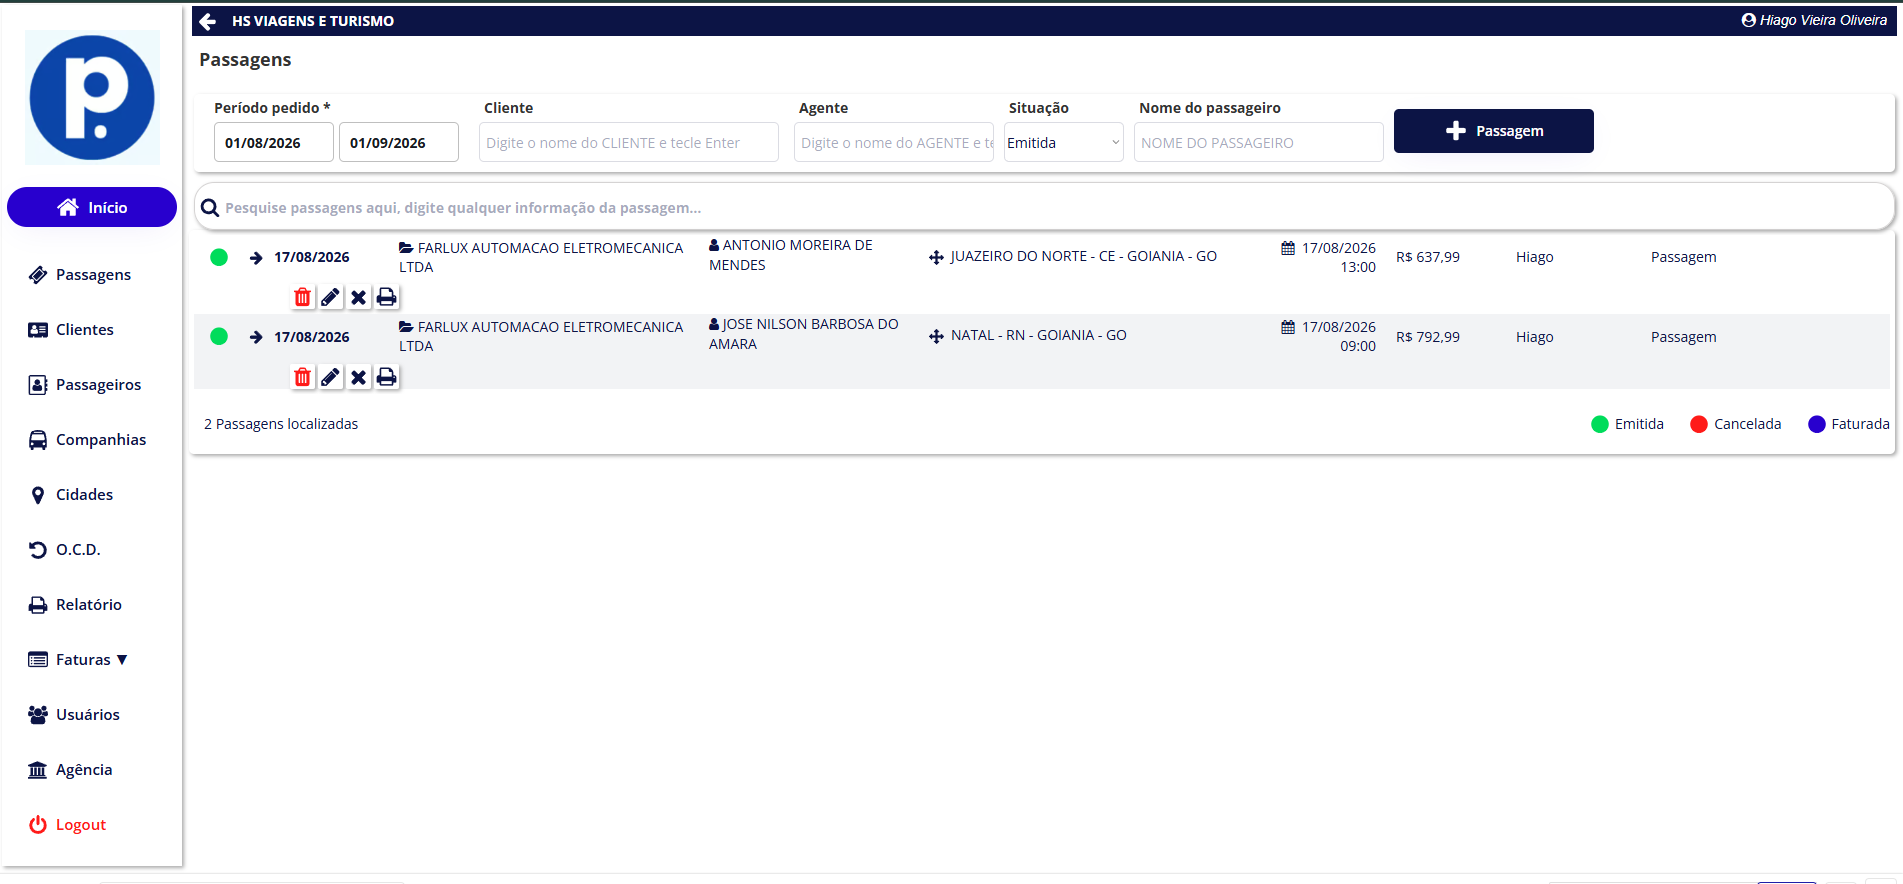
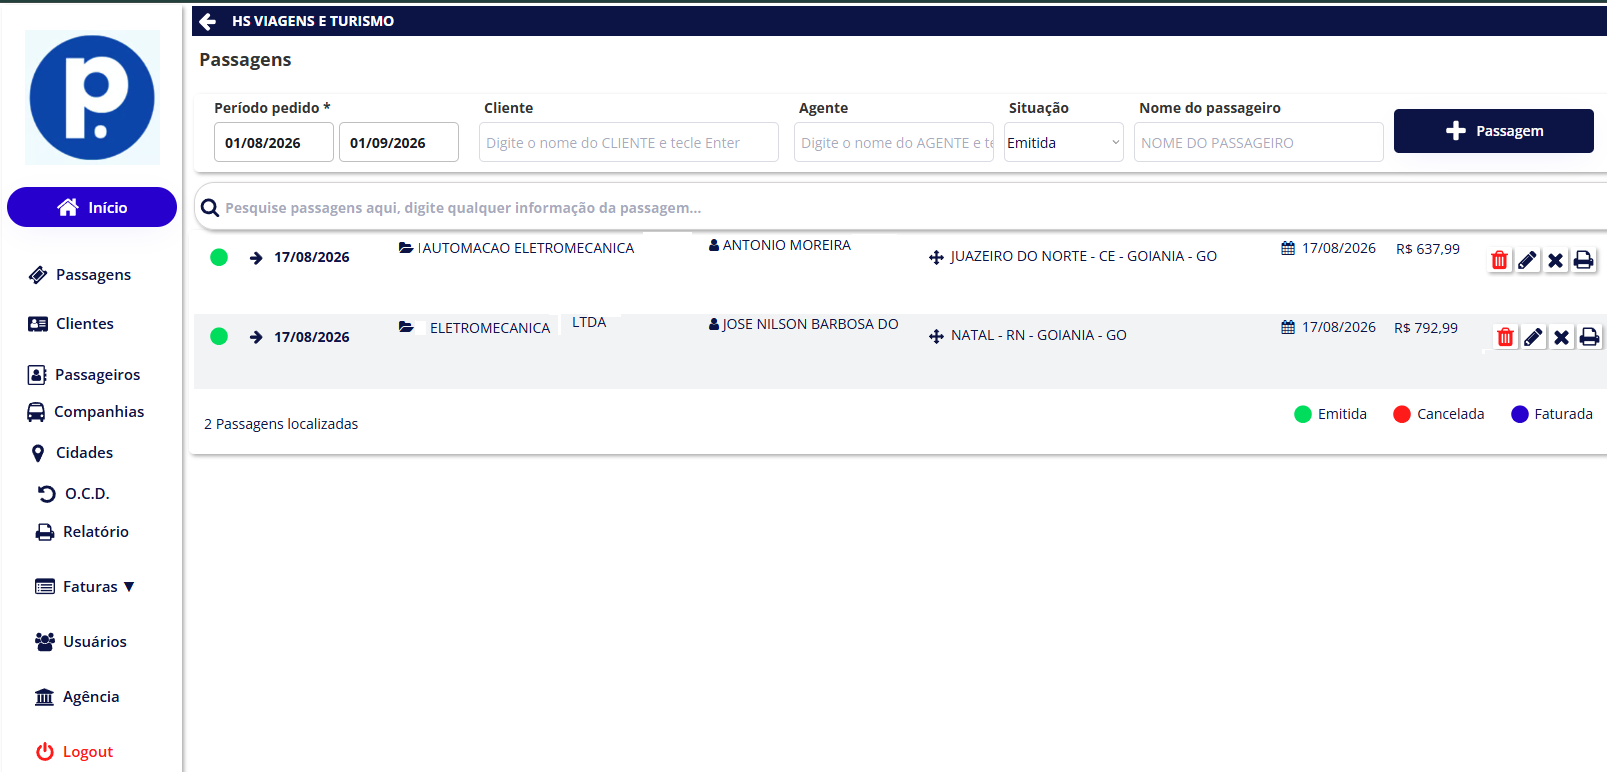
Atualiza screenshots (dados anonimizados), botão Entrar, FAQ schema e SEO
- Substitui screenshots com dados de clientes reais por versões anonimizadas
- Adiciona JSON-LD FAQPage refletindo as perguntas da seção de dúvidas
- Adiciona robots.txt e sitemap.xml

diff --git a/index.html b/index.html
@@ -17,6 +17,55 @@
 
 <link rel="icon" href="images/logotipo.png" />
 
+<script type="application/ld+json">
+{
+  "@context": "https://schema.org",
+  "@type": "FAQPage",
+  "mainEntity": [
+    {
+      "@type": "Question",
+      "name": "O Fatura Passagem gera boleto e nota fiscal?",
+      "acceptedAnswer": {
+        "@type": "Answer",
+        "text": "Não. O boleto e a nota fiscal continuam saindo dos seus sistemas atuais. O que o Fatura Passagem faz é permitir anexar os dois à fatura e enviar tudo junto ao cliente por e-mail."
+      }
+    },
+    {
+      "@type": "Question",
+      "name": "Funciona no celular e no tablet?",
+      "acceptedAnswer": {
+        "@type": "Answer",
+        "text": "Sim. É um sistema web: abre em qualquer navegador com internet, no PC, no tablet ou no celular. Não precisa instalar nada."
+      }
+    },
+    {
+      "@type": "Question",
+      "name": "Como é a cobrança?",
+      "acceptedAnswer": {
+        "@type": "Answer",
+        "text": "Depende do porte da agência e do volume de passagens. Chame no WhatsApp que a gente monta uma proposta para o seu caso."
+      }
+    },
+    {
+      "@type": "Question",
+      "name": "O que é uma OCD?",
+      "acceptedAnswer": {
+        "@type": "Answer",
+        "text": "Ordem de Crédito de Devolução. Quando uma passagem é devolvida pela companhia, você registra uma OCD e controla quando ela será faturada. Na fatura, ela entra com valor negativo, gerando desconto para o cliente."
+      }
+    },
+    {
+      "@type": "Question",
+      "name": "Consigo migrar minha base de clientes?",
+      "acceptedAnswer": {
+        "@type": "Answer",
+        "text": "Sim. Fale com a gente sobre o formato dos seus dados atuais e ajudamos na importação inicial de clientes. Serviço mediante pagamento adicional, solicite o orçamento."
+      }
+    }
+  ]
+}
+</script>
+
 <link rel="preconnect" href="https://fonts.googleapis.com" />
 <link rel="preconnect" href="https://fonts.gstatic.com" crossorigin />
 <link href="https://fonts.googleapis.com/css2?family=Inter:wght@400;500;600;700;800;900&display=swap" rel="stylesheet" />
@@ -77,10 +126,9 @@
       <a href="#faq" class="hover:text-navy">Dúvidas</a>
     </nav>
 
-    <a href="#" data-wa
-       class="hidden items-center gap-2 rounded-full bg-wa px-5 py-2.5 text-sm font-semibold text-white shadow-soft transition hover:bg-wa-600 md:inline-flex">
-      <svg viewBox="0 0 24 24" class="h-4 w-4 fill-current"><path d="M12.04 2C6.58 2 2.13 6.45 2.13 11.91c0 1.75.46 3.45 1.32 4.95L2 22l5.25-1.38a9.9 9.9 0 0 0 4.79 1.22h.01c5.46 0 9.91-4.45 9.91-9.91S17.5 2 12.04 2Zm0 18.15h-.01a8.2 8.2 0 0 1-4.19-1.15l-.3-.18-3.12.82.83-3.04-.2-.31a8.24 8.24 0 0 1-1.26-4.38c0-4.54 3.7-8.24 8.25-8.24 2.2 0 4.27.86 5.83 2.42a8.19 8.19 0 0 1 2.41 5.83c0 4.55-3.7 8.24-8.24 8.24Zm4.52-6.16c-.25-.12-1.47-.72-1.69-.81-.23-.08-.39-.12-.56.13-.16.25-.64.81-.79.97-.14.17-.29.19-.54.06-.25-.12-1.05-.39-1.99-1.23-.74-.66-1.23-1.47-1.38-1.72-.14-.25-.02-.38.11-.51.11-.11.25-.29.37-.43.13-.14.17-.25.25-.41.08-.17.04-.31-.02-.43-.06-.12-.56-1.34-.76-1.84-.2-.48-.4-.42-.56-.42l-.48-.01c-.17 0-.43.06-.66.31-.23.25-.86.85-.86 2.07 0 1.22.89 2.4 1.01 2.56.12.17 1.75 2.67 4.25 3.74.59.26 1.06.41 1.42.52.6.19 1.14.16 1.57.1.48-.07 1.47-.6 1.68-1.18.21-.58.21-1.07.14-1.18-.06-.1-.22-.16-.47-.28Z"/></svg>
-      Falar no WhatsApp
+    <a href="https://passagem.app"
+       class="hidden items-center gap-2 rounded-full bg-brand px-6 py-2.5 text-sm font-semibold text-white shadow-soft transition hover:bg-brand-500 md:inline-flex">
+      Entrar
     </a>
 
     <button id="menuBtn" class="md:hidden" aria-label="Abrir menu">
@@ -132,7 +180,7 @@
             Ver como funciona
           </a>
         </div>
-        <p class="mt-6 flex flex-wrap items-center gap-x-6 gap-y-2 text-sm text-white/55">
+        <p class="mt-6 flex flex-wrap items-center gap-x-6 gap-y-2 text-sm text-white">
           <span class="flex items-center gap-2"><svg class="h-4 w-4 text-mint" fill="none" stroke="currentColor" stroke-width="2.5" viewBox="0 0 24 24"><path stroke-linecap="round" stroke-linejoin="round" d="M5 13l4 4L19 7"/></svg> Ideal para agências de turismo</span>
           <span class="flex items-center gap-2"><svg class="h-4 w-4 text-mint" fill="none" stroke="currentColor" stroke-width="2.5" viewBox="0 0 24 24"><path stroke-linecap="round" stroke-linejoin="round" d="M5 13l4 4L19 7"/></svg> Dispensa o uso de planilhas</span>
           <span class="flex items-center gap-2"><svg class="h-4 w-4 text-mint" fill="none" stroke="currentColor" stroke-width="2.5" viewBox="0 0 24 24"><path stroke-linecap="round" stroke-linejoin="round" d="M5 13l4 4L19 7"/></svg> Relatórios diversos</span>
